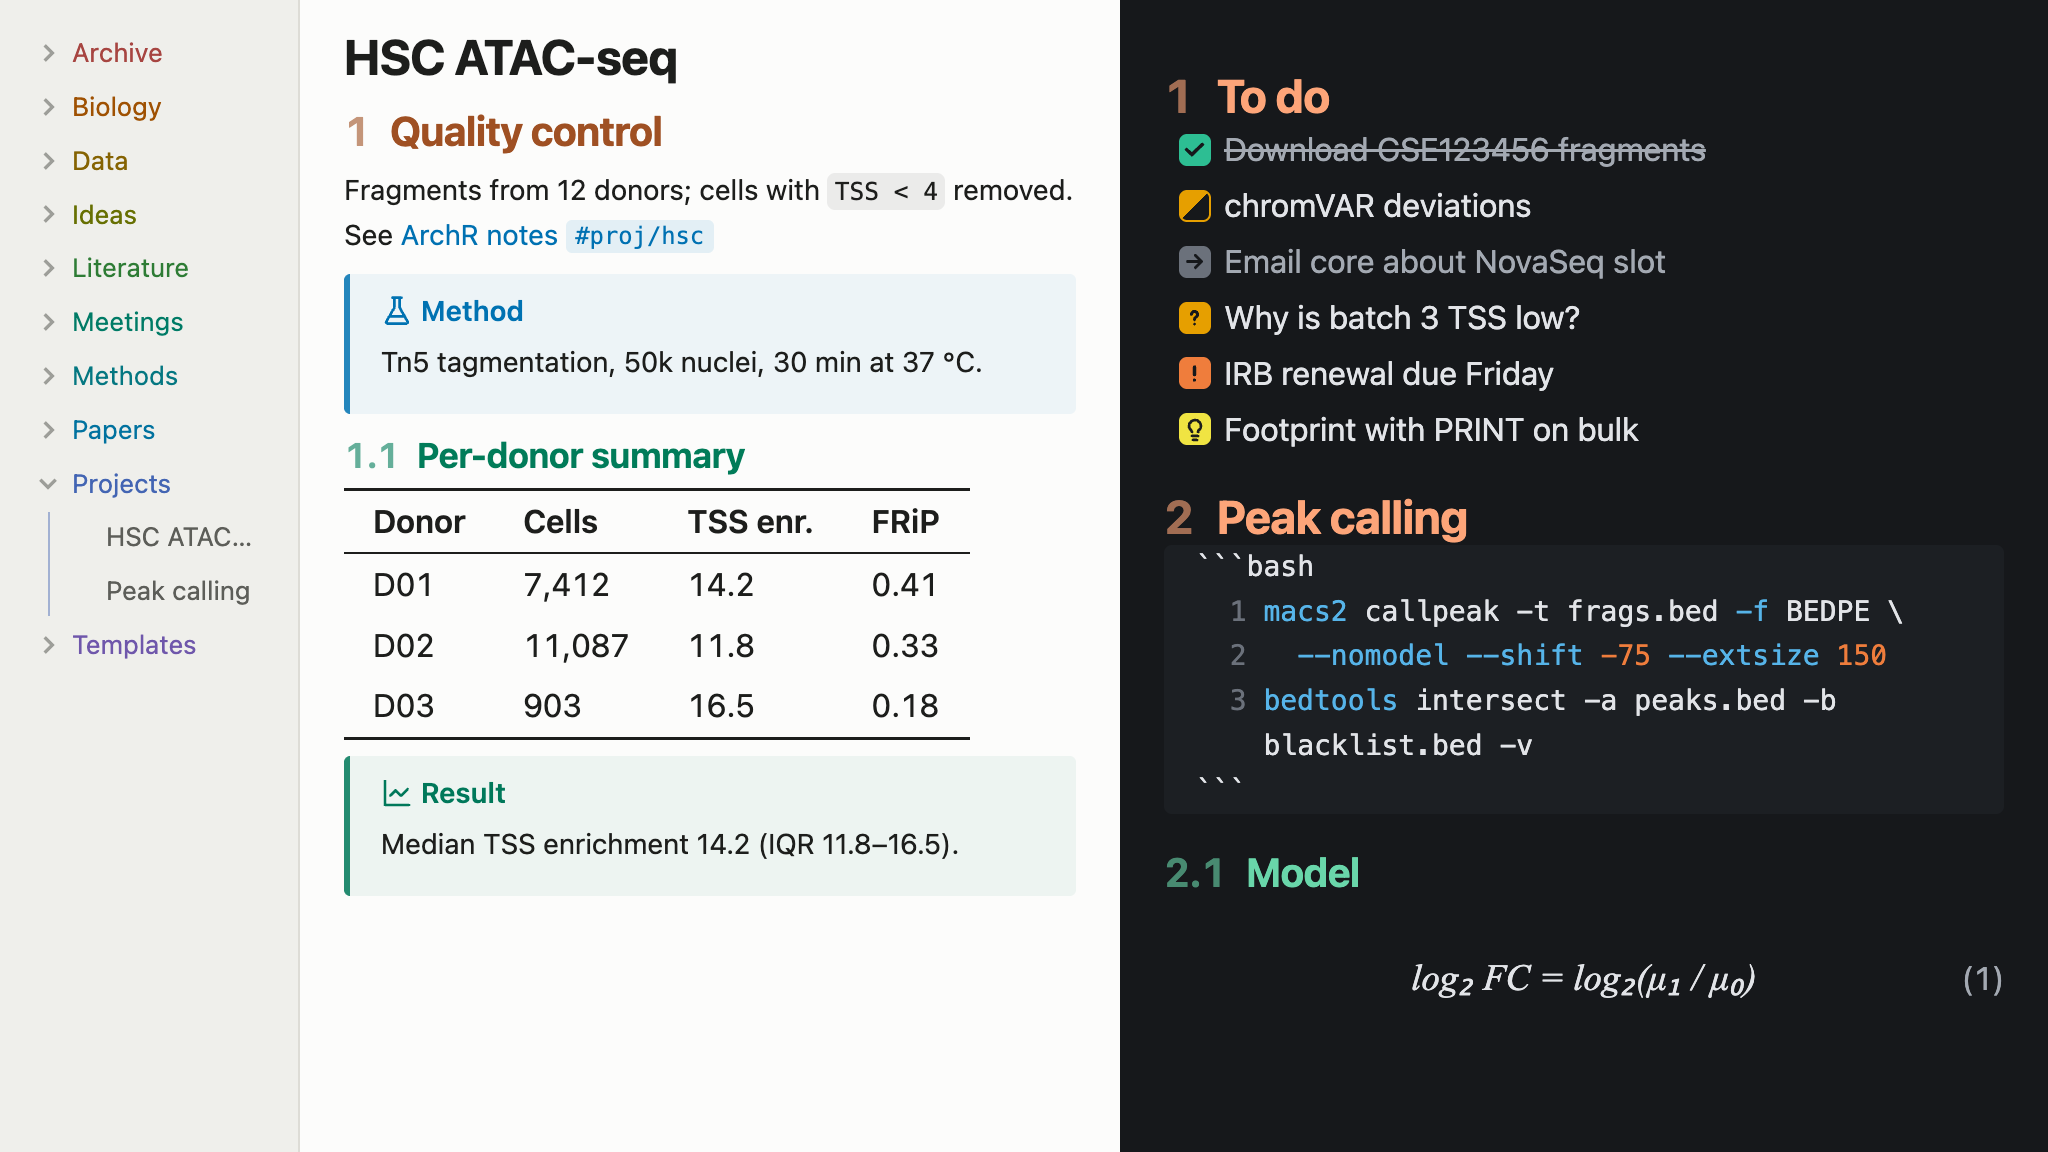
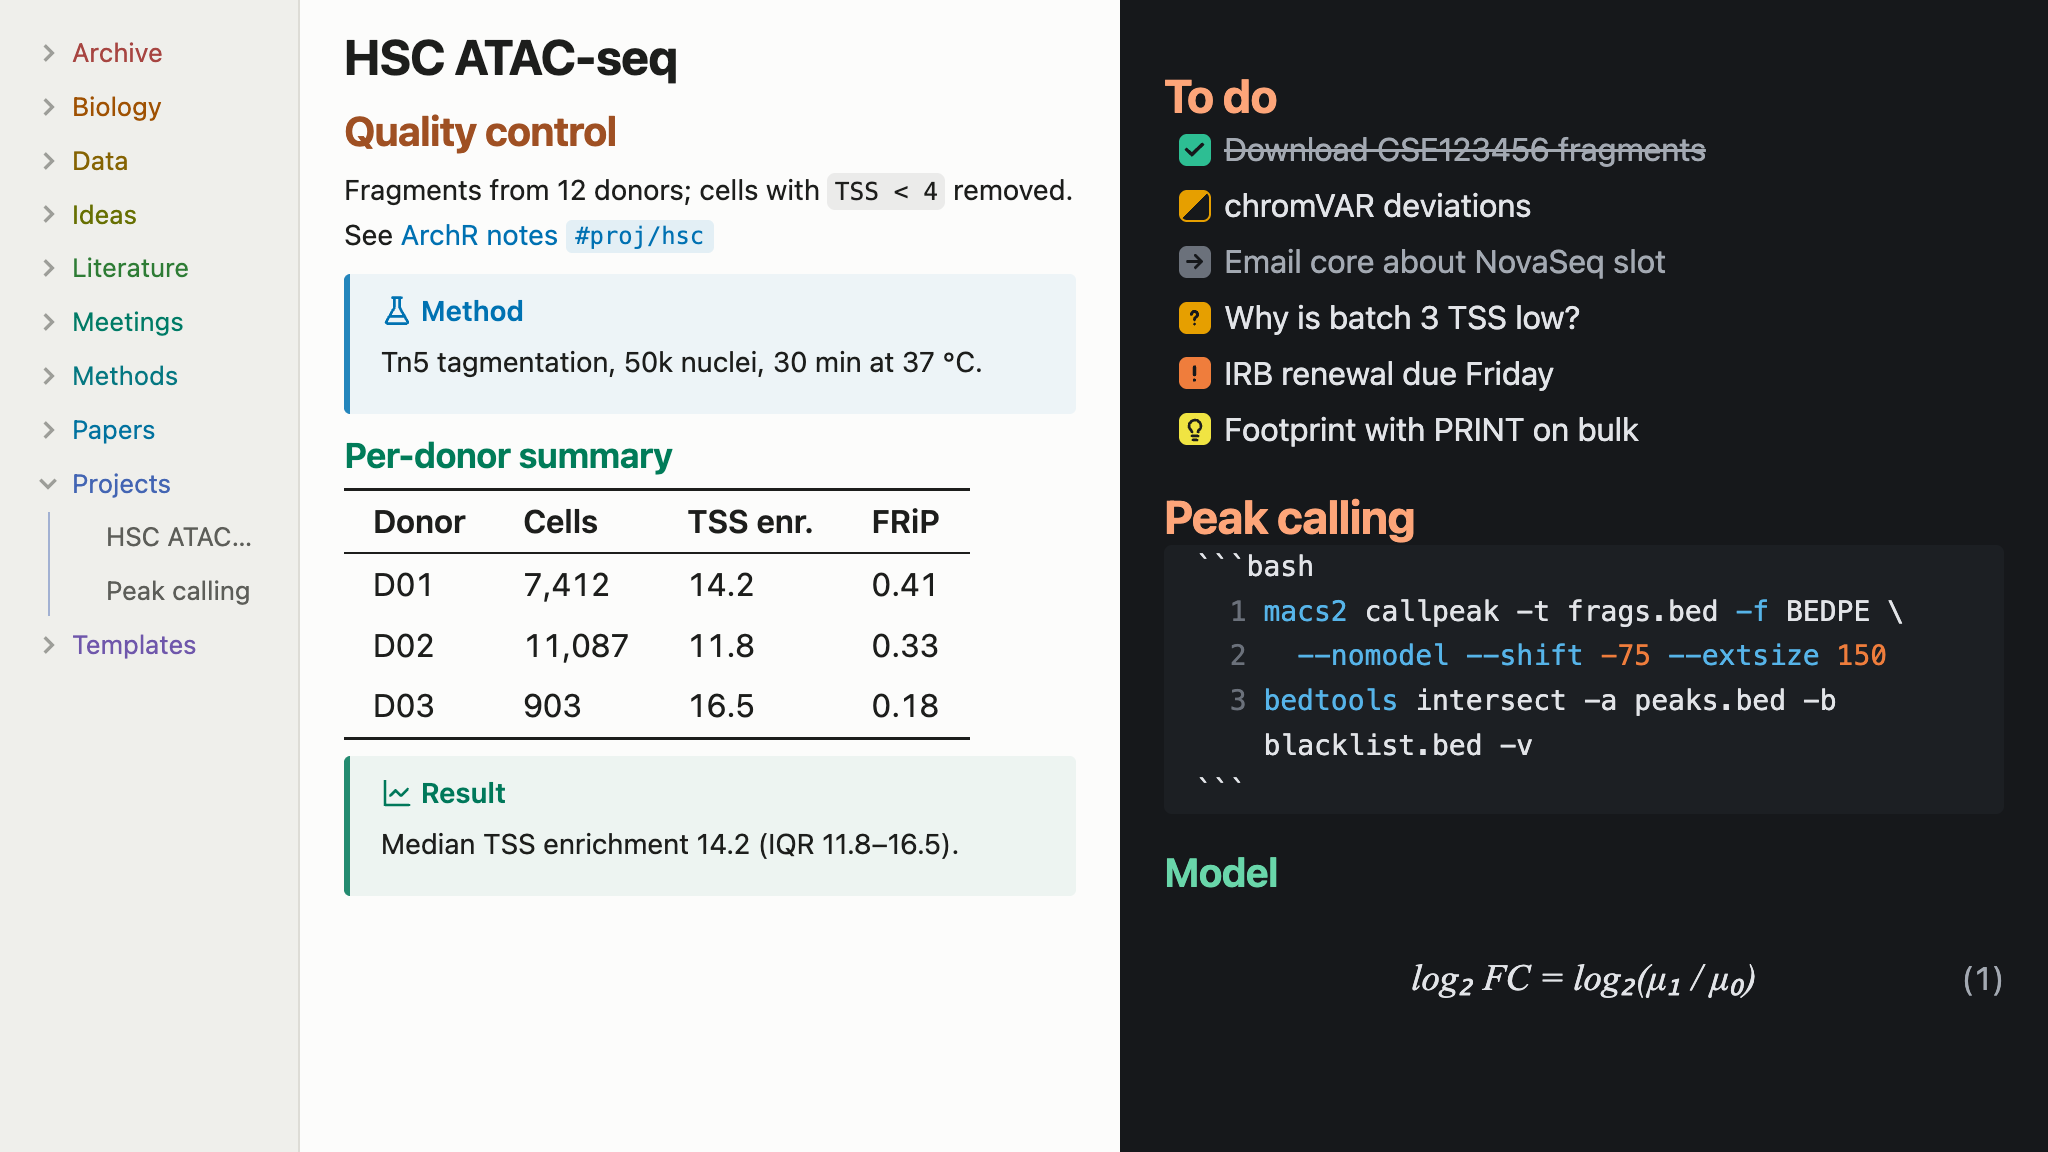
Locus 0.1.0: drop heading numbering
Obsidian renders only the part of a long note near the viewport, so CSS
counters miscount headings once earlier sections are unloaded. Point to
the Number Headings plugin instead.

Claude-Session: https://claude.ai/code/session_01YVVVKPqsQjboEkDHBFwbs5

diff --git a/theme.css b/theme.css
@@ -21,11 +21,6 @@ settings:
     description: Use plain text color for headings
     type: class-toggle
   -
-    id: locus-no-heading-numbers
-    title: Disable heading numbers
-    description: Do not number H2–H6 (1, 1.1, 1.1.1, …)
-    type: class-toggle
-  -
     id: locus-no-equation-numbers
     title: Disable equation numbers
     description: Do not number display math blocks
@@ -210,69 +205,9 @@ body.locus-mono-headings {
   --h6-color: var(--text-muted);
 }
 
-/* Heading numbers: H1 is the note title, so numbering starts at H2 (1, 1.1, 1.1.1)
- * and every H1 restarts it. Reading view wraps each heading in a sibling
- * div.el-hN; live preview gives each heading line .HyperMD-header-N. Both
- * views render only the part of a note near the viewport, so in very long
- * notes the count covers only headings currently in the DOM. */
-
-/* All note-level counters (headings, code lines, equations) are created once on
-   the container, in one rule since a second counter-reset would override it.
-   Siblings then zero them with counter-set, because a sibling's counter-reset
-   would only start a nested counter that later siblings never see. */
-:is(.markdown-preview-sizer, .markdown-source-view.mod-cm6 .cm-content) {
-  counter-reset: locus-h2 locus-h3 locus-h4 locus-h5 locus-h6 locus-code locus-eq;
-}
-body:not(.locus-no-heading-numbers) :is(.markdown-preview-sizer > .el-h1, .is-live-preview .HyperMD-header-1) {
-  counter-set: locus-h2 0 locus-h3 0 locus-h4 0 locus-h5 0 locus-h6 0;
-}
-body:not(.locus-no-heading-numbers) :is(.markdown-preview-sizer > .el-h2, .is-live-preview .HyperMD-header-2) {
-  counter-increment: locus-h2;
-  counter-set: locus-h3 0 locus-h4 0 locus-h5 0 locus-h6 0;
-}
-body:not(.locus-no-heading-numbers) :is(.markdown-preview-sizer > .el-h3, .is-live-preview .HyperMD-header-3) {
-  counter-increment: locus-h3;
-  counter-set: locus-h4 0 locus-h5 0 locus-h6 0;
-}
-body:not(.locus-no-heading-numbers) :is(.markdown-preview-sizer > .el-h4, .is-live-preview .HyperMD-header-4) {
-  counter-increment: locus-h4;
-  counter-set: locus-h5 0 locus-h6 0;
-}
-body:not(.locus-no-heading-numbers) :is(.markdown-preview-sizer > .el-h5, .is-live-preview .HyperMD-header-5) {
-  counter-increment: locus-h5;
-  counter-set: locus-h6 0;
-}
-body:not(.locus-no-heading-numbers) :is(.markdown-preview-sizer > .el-h6, .is-live-preview .HyperMD-header-6) {
-  counter-increment: locus-h6;
-}
-
-body:not(.locus-no-heading-numbers) :is(.markdown-preview-sizer > div > :is(h2, h3, h4, h5, h6),
-  .is-live-preview :is(.HyperMD-header-2, .HyperMD-header-3, .HyperMD-header-4, .HyperMD-header-5, .HyperMD-header-6))::before {
-  margin-inline-end: 0.5em;
-  color: color-mix(in oklch, currentColor 60%, transparent);
-  font-variant-numeric: tabular-nums;
-}
-body:not(.locus-no-heading-numbers) :is(.markdown-preview-sizer > .el-h2 > h2, .is-live-preview .HyperMD-header-2)::before {
-  content: counter(locus-h2);
-}
-body:not(.locus-no-heading-numbers) :is(.markdown-preview-sizer > .el-h3 > h3, .is-live-preview .HyperMD-header-3)::before {
-  content: counter(locus-h2) "." counter(locus-h3);
-}
-body:not(.locus-no-heading-numbers) :is(.markdown-preview-sizer > .el-h4 > h4, .is-live-preview .HyperMD-header-4)::before {
-  content: counter(locus-h2) "." counter(locus-h3) "." counter(locus-h4);
-}
-body:not(.locus-no-heading-numbers) :is(.markdown-preview-sizer > .el-h5 > h5, .is-live-preview .HyperMD-header-5)::before {
-  content: counter(locus-h2) "." counter(locus-h3) "." counter(locus-h4) "." counter(locus-h5);
-}
-body:not(.locus-no-heading-numbers) :is(.markdown-preview-sizer > .el-h6 > h6, .is-live-preview .HyperMD-header-6)::before {
-  content: counter(locus-h2) "." counter(locus-h3) "." counter(locus-h4) "." counter(locus-h5) "." counter(locus-h6);
-}
-
 /* Outline pane: items carry no heading level in the DOM, only nesting, so
- * color and number follow depth. Depth equals level whenever a note starts
- * with its one H1 and never skips a level. Each children container opens a
- * nested counter, so counters() yields 1, 1.1, 1.1.1 with depth 1 (the H1)
- * left unnumbered. */
+ * color follows depth. Depth equals level whenever a note starts with its one
+ * H1 and never skips a level. */
 
 .workspace-leaf-content[data-type="outline"] .view-content > div > .tree-item > .tree-item-self {
   color: var(--h1-color);
@@ -300,19 +235,6 @@ body:not(.locus-no-heading-numbers) :is(.markdown-preview-sizer > .el-h6 > h6, .
   > .tree-item-children > .tree-item > .tree-item-children > .tree-item
   > .tree-item-children > .tree-item > .tree-item-self {
   color: var(--h6-color);
-}
-
-body:not(.locus-no-heading-numbers) .workspace-leaf-content[data-type="outline"] .tree-item-children {
-  counter-reset: locus-outline;
-}
-body:not(.locus-no-heading-numbers) .workspace-leaf-content[data-type="outline"] .tree-item-children > .tree-item {
-  counter-increment: locus-outline;
-}
-body:not(.locus-no-heading-numbers) .workspace-leaf-content[data-type="outline"] .tree-item-children > .tree-item > .tree-item-self > .tree-item-inner::before {
-  content: counters(locus-outline, ".");
-  margin-inline-end: 0.5em;
-  color: color-mix(in oklch, currentColor 60%, transparent);
-  font-variant-numeric: tabular-nums;
 }
 
 .markdown-rendered a:hover,
@@ -425,6 +347,14 @@ body {
 .markdown-rendered pre[class~="language-gff" i]::after { content: "GFF"; }
 .markdown-rendered pre[class~="language-tsv" i]::after { content: "TSV"; }
 .markdown-rendered pre[class~="language-csv" i]::after { content: "CSV"; }
+
+/* Code-line and equation counters are created once on the note container, in
+   one rule since a second counter-reset would override it. Code blocks then
+   restart theirs with counter-set, because a sibling's counter-reset would
+   only start a nested counter that later lines never see. */
+:is(.markdown-preview-sizer, .markdown-source-view.mod-cm6 .cm-content) {
+  counter-reset: locus-code locus-eq;
+}
 
 /* Line numbers, editor only: reading view renders a code block as one run of
    text with no per-line elements to count. Fence lines restart the count. */

diff --git a/README.md b/README.md
@@ -24,11 +24,11 @@ Copy `showcase.md` into your vault and open it to see every feature.
 
 ## Features
 
-**Heading numbers:** in reading view and live preview, H2–H6 are numbered `1`, `1.1`, `1.1.2`, …; source mode is left as plain text. H1 is treated as the note title, so it gets no number, and each H1 restarts the count. A skipped level shows as `0` (for example, an H4 directly under an H2 is `1.0.1`). The numbers are display-only and never written into your files. Obsidian only renders the part of a long note near the screen, so in a note several screens long the numbers can be off after you scroll far down. Turn numbering off with **Disable heading numbers** in Style Settings.
+**Outline pane:** headings in the Outline get the same colors as in the note. The pane doesn't record each item's heading level, only how deeply it's nested, so Locus colors by depth and assumes the top level is the H1 title. This matches the note whenever it starts with a single H1 and doesn't skip levels.
 
-The **Outline** pane gets the same colors and numbers. The pane doesn't record each item's heading level, only how deeply it's nested, so Locus colors and numbers by depth. The top level is assumed to be the H1 title and gets no number. This matches the note whenever it starts with a single H1 and doesn't skip levels. In a note with no H1, the Outline treats the top-level H2s as titles: unnumbered and colored like H1.
+Locus doesn't number headings. For numbered headings, use the [Number Headings](https://github.com/onlyafly/number-headings-obsidian) community plugin, which writes the numbers into the headings themselves.
 
-**Equation numbers:** display math (`$$ … $$`) is numbered (1), (2), … at the right margin in reading view and live preview; inline math is not. In live preview the number hides while the pointer is over the block, so it doesn't collide with the edit button. Long notes have the same scrolling limitation as heading numbers.
+**Equation numbers:** display math (`$$ … $$`) is numbered (1), (2), … at the right margin in reading view and live preview; inline math is not. In live preview the number hides while the pointer is over the block, so it doesn't collide with the edit button. Obsidian only renders the part of a long note near the screen, so in a note several screens long the numbers can be off after you scroll far down.
 
 **Code line numbers:** code blocks show line numbers in the editor (live preview and source mode). Reading view can't number lines, because it renders a code block as one run of text.
 
@@ -83,7 +83,7 @@ The **Outline** pane gets the same colors and numbers. The pane doesn't record e
 
 ## Options
 
-If the [Style Settings](https://github.com/mgmeyers/obsidian-style-settings) plugin is installed, you can turn off individual features: colored headings, heading numbers, equation numbers, code line numbers, due-date urgency, folder colors, booktabs tables, code labels, custom checkboxes, and the active-line tint. Every feature is on by default, with or without the plugin.
+If the [Style Settings](https://github.com/mgmeyers/obsidian-style-settings) plugin is installed, you can turn off individual features: colored headings, equation numbers, code line numbers, due-date urgency, folder colors, booktabs tables, code labels, custom checkboxes, and the active-line tint. Every feature is on by default, with or without the plugin.
 
 ## License
 

diff --git a/showcase.md b/showcase.md
@@ -6,13 +6,8 @@ Open this note in a vault with Locus enabled to see every feature, in both readi
 
 ### Level three
 #### Level four
-#### Another level four
 ##### Level five
 ###### Level six
-
-### Numbering continues
-
-The headings above read 1, 1.1, 1.1.1, 1.1.2, 1.1.2.1, 1.1.2.1.1; this one is 1.2.
 
 Peaks were called with `macs2 callpeak -f BEDPE` on [[pseudobulk fragments]]; see the [ENCODE blacklist](https://github.com/Boyle-Lab/Blacklist). Tagged #proj/example #labmeeting. ==FRiP below 0.2 was excluded.== **Bold** and *italic*.
 
